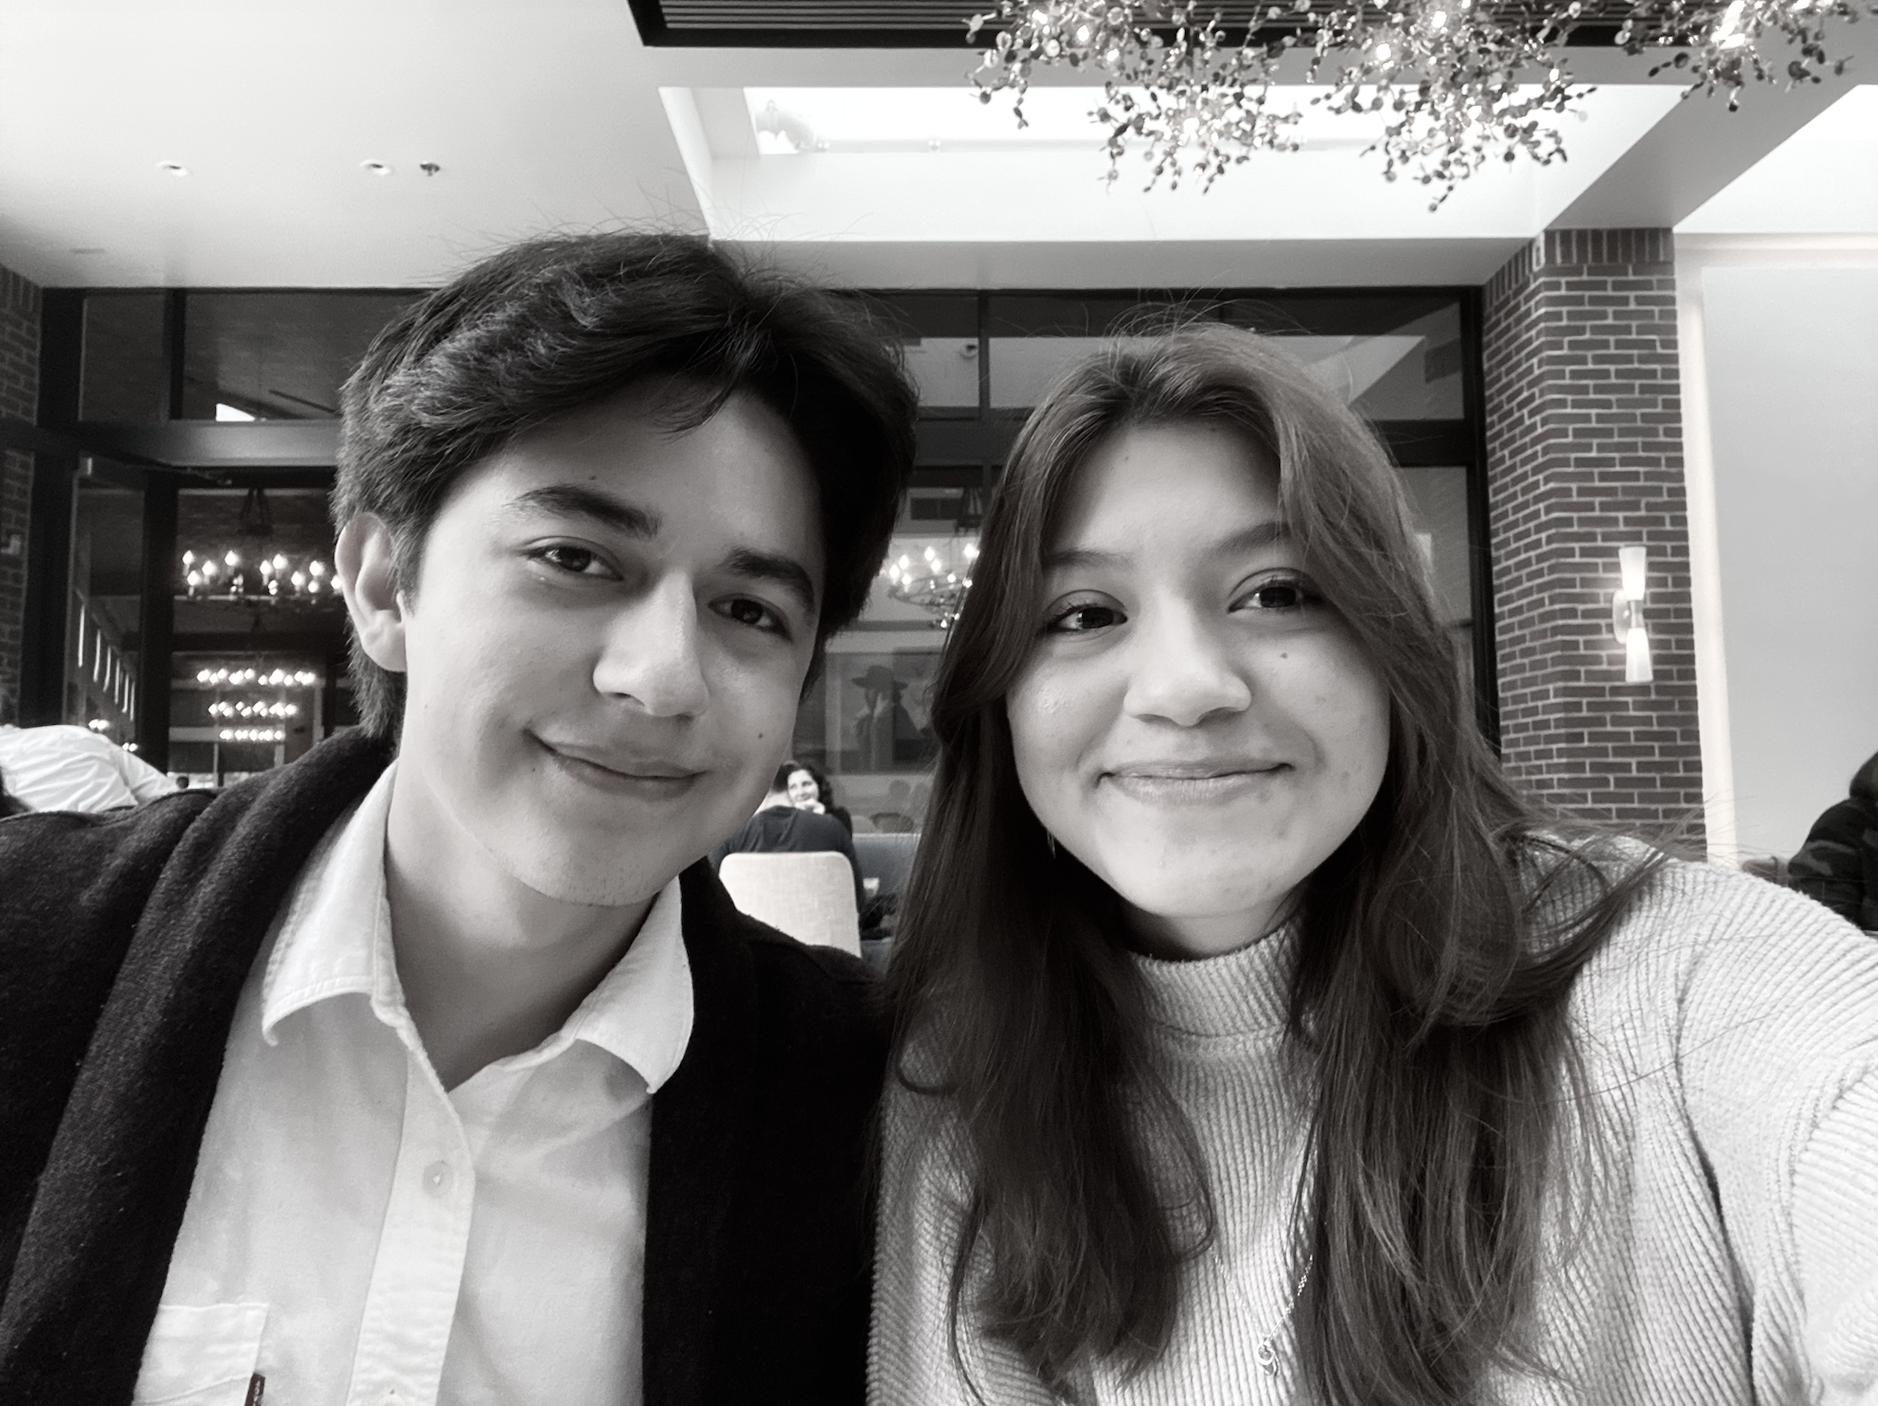
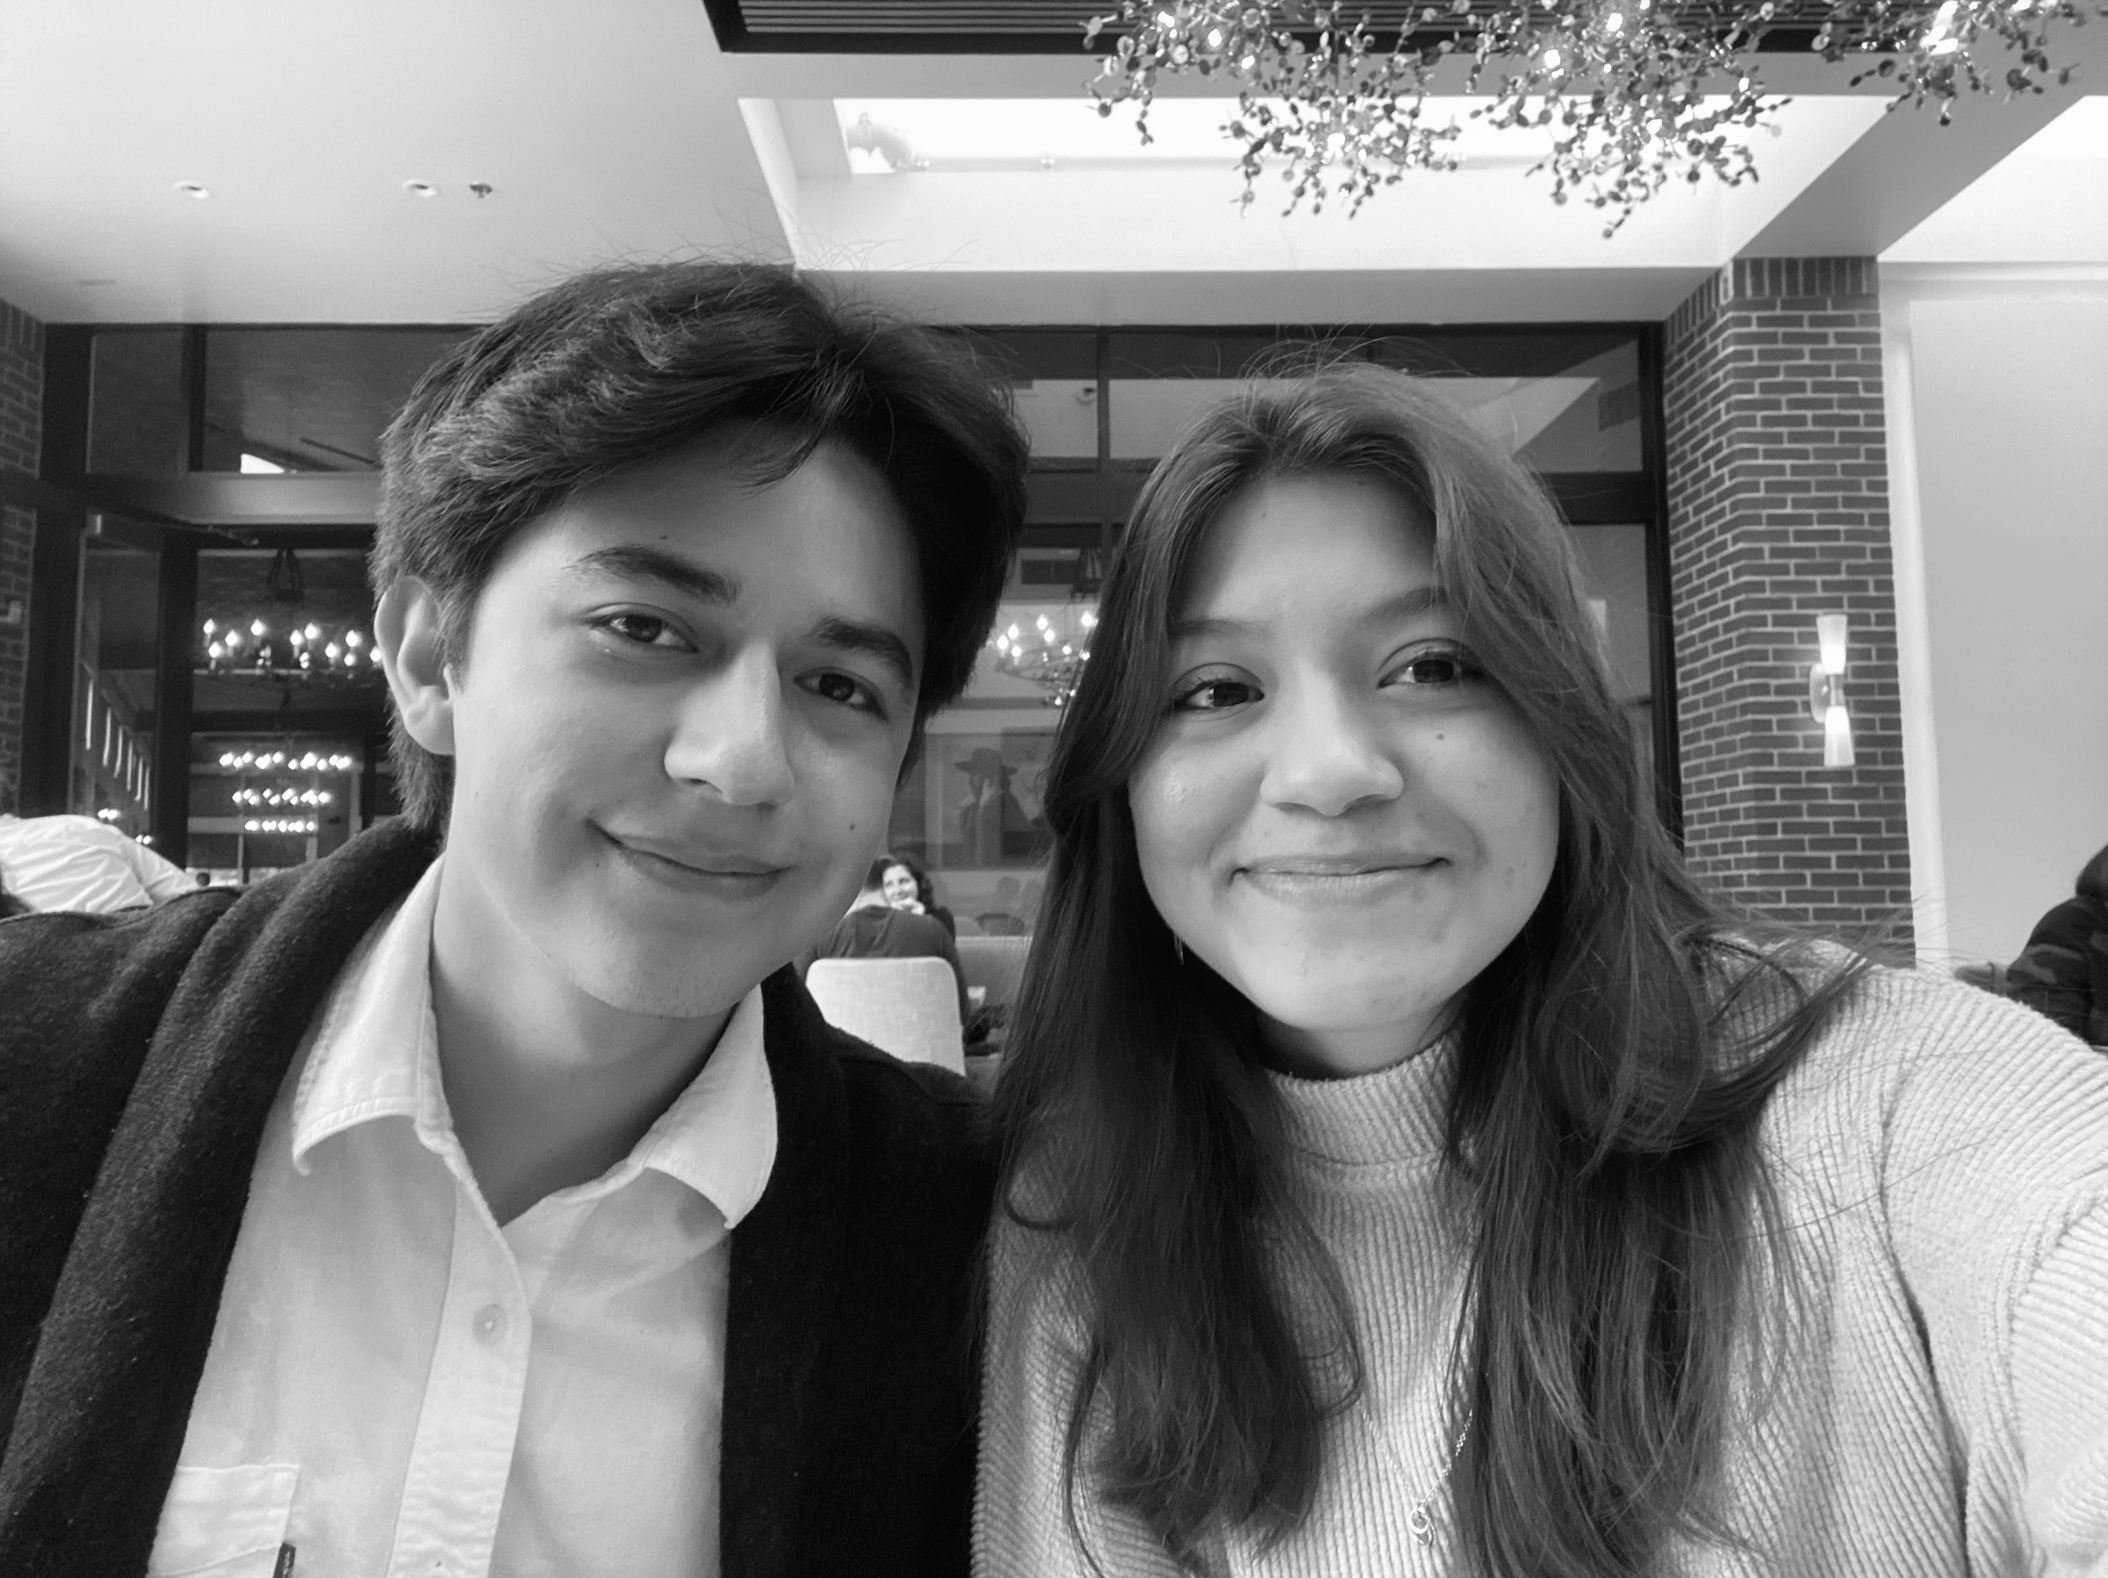
add to our story

diff --git a/i18n.js b/i18n.js
@@ -55,10 +55,10 @@
       storyLinkAria: 'Ver nuestra historia',
       storyHeading: 'Nuestra Historia',
       storyBackLink: '← Volver a la Invitación',
-      storyPara1: 'Al comienzo de nuestro segundo año de universidad, los dos asistimos por primera vez a un evento de la Sociedad de Ingenieros Hispanos Profesionales (SHPE). Después de reconocernos de la clase de historia Mexicana que habíamos tenido más temprano ese día, empezamos a platicar y terminamos caminando juntos desde el campus hasta la refresquería en Rice Village. Despues de allí, empezamos a almorzar juntos despues de clase, y nos fuimos conociendo más. Salimos a cenar algunas veces en Rice Village y comenzamos oficialmente nuestra relación en un picnic en Hermann Park.',
-      storyPara2: 'Seguimos involucrados en SHPE durante el resto de la carrera, y en nuestro último año llegamos a ser presidenta (Lizeth) y tesorero (Daniel). Nos graduamos en mayo de 2025 y, después de la universidad, pasamos un año a más de mil quinientos kilómetros de distancia: Daniel regresó a casa en Los Ángeles y Lizeth se mudó a Seattle por el trabajo.',
-      storyPara3: 'Después de tantas llamadas por FaceTime, citas virtuales y viajes entre Seattle y Los Ángeles, Daniel le pidió matrimonio a Lizeth en el Parque Nacional Joshua Tree, y Lizeth dijo que sí. Después de casarnos, viviremos en Seattle, donde Lizeth seguirá trabajando como ingeniera de software y Daniel estudiará una maestría en ingeniería mecánica en la Universidad de Washington.',
-
+      storyPara1: 'La historia de Daniel y Lizeth comenzó en su segundo año de la universidad, cuando ambos asistieron a una reunión de la Sociedad de Ingenieros Profesionales Hispanos (SHPE). Lizeth reconoció a Daniel de una clase de historia mexicana que habían tenido esa mañana, así que cuando todos salieron a comer tacos, ella empezó una conversación con él. Al terminar la reunión, un grupo decidió ir por postre a una refresquería. Ellos se unieron y platicaron durante todo el camino.',
+      storyPara2: 'Desde entonces, Daniel buscaba la manera de acercarse a Lizeth al final de clase, y empezó a acompañarla a almorzar. En las semanas siguientes, se seguían encontrando en eventos escolares y poco a poco se fueron conociendo mejor. Salieron a cenar varias veces en Rice Village, y finalmente, Daniel organizó un picnic en Hermann Park donde le pidió que fuera su novia. Ella dijo que sí.',
+      storyPara3: 'Los dos siguieron involucrados en SHPE durante toda la carrera, llegando a ser presidenta (Lizeth) y tesorero (Daniel) en su último año. Se graduaron juntos en mayo de 2025, y después pasaron un año separados por más de mil millas de distancia, ya que Daniel regresó a vivir en Los Ángeles y Lizeth se mudó a Seattle por el trabajo.',
+      storyPara4: 'Después de tantas videollamadas, citas virtuales y viajes de una ciudad a otra, Daniel le pidió matrimonio en el Parque Nacional Joshua Tree. Lizeth dijo que sí, otra vez :) . Una vez casados, la pareja vivirá en Seattle, donde Lizeth continuará su carrera como ingeniera de software y Daniel estudiará una maestría en ingeniería mecánica en la Universidad de Washington.',
       langAria: 'Idioma',
 
       modalHeading: 'Confirmar Asistencia',
@@ -127,10 +127,10 @@
       storyLinkAria: 'See our story',
       storyHeading: 'Our Story',
       storyBackLink: '← Back to the Invitation',
-      storyPara1: 'At the beginning of our sophomore year, we both went to a Society of Hispanic Professional Engineers (SHPE) event for the first time. We recognized each other from the Mexican history class we had had earlier that day, started talking, and ended up walking all the way from campus to the refresquería in Rice Village together. We started getting lunch together regularly after class and got to know each other better over time. We went out for dinner a couple of times in Rice Village, and we officially began our relationship on a picnic in Hermann Park.',
-      storyPara2: 'We stayed involved in SHPE throughout college, eventually serving as president (Lizeth) and treasurer (Daniel) during our senior year. We both graduated in May 2025, and afterward we spent a year more than a thousand miles apart — Daniel moved back home to Los Angeles, and Lizeth moved to Seattle for work.',
-      storyPara3: 'After countless FaceTime calls, virtual dates, and trips between Seattle and Los Angeles, Daniel proposed to Lizeth in Joshua Tree National Park, and Lizeth said yes. After the wedding, we will live in Seattle, where Lizeth will keep working as a software engineer and Daniel will pursue a master’s in mechanical engineering at the University of Washington.',
-
+      storyPara1: 'Daniel and Lizeth\'s story began their sophomore year, when they both attended a club meeting for the Society of Hispanic Professional Engineers (SHPE). Lizeth recognized Daniel from a Mexican history class earlier that day, so when everyone headed outside afterward for tacos, she struck up a conversation with him. After the meeting ended, a smaller group decided to get dessert at a refresquería. They joined them and talked the whole way there. ',
+      storyPara2: 'From then on, Daniel would find his way to Lizeth\'s side as soon as history class let out and started walking her to lunch. Over the following weeks, they kept crossing paths at school events and slowly got to know each other better. They went out to dinner a few times in Rice Village, and eventually, Daniel planned a picnic in Hermann Park where he asked her to be his girlfriend. She said yes.',
+      storyPara3: 'The two stayed involved in SHPE throughout college, rising to president (Lizeth) and treasurer (Daniel) by their senior year. They graduated together in May of 2025, and then spent the next year more than a thousand miles apart, as Daniel moved back home to Los Angeles and Lizeth headed to Seattle for work.',
+      storyPara4: 'After countless FaceTime calls, virtual dates, and cross-country trips between the two cities, Daniel proposed in Joshua Tree National Park. Lizeth said yes, again :) . Once they\'re married, the couple will live in Seattle, where Lizeth will continue her career as a software engineer and Daniel will pursue a master\'s in mechanical engineering at the University of Washington.',
       langAria: 'Language',
 
       modalHeading: 'Confirm Attendance',

diff --git a/historia.html b/historia.html
@@ -19,7 +19,7 @@
 <meta name="twitter:description" content="Cómo Daniel y Lizeth llegaron hasta aquí.">
 <meta name="twitter:image" content="assets/img/thumbnail.png">
 
-<link rel="stylesheet" href="styles.css?v=20260901o">
+<link rel="stylesheet" href="styles.css?v=20260901q">
 </head>
 <body class="story-page-body">
 <div class="paper-bg" aria-hidden="true"></div>
@@ -38,16 +38,21 @@
   <img class="story-page__photo" src="assets/img/us1.png" alt="Daniel y Lizeth">
   <p data-i18n="storyPara1">Al comienzo de nuestro segundo año de universidad, los dos asistimos por primera vez a un evento de SHPE.</p>
 
-  <img class="story-page__photo" src="assets/img/us2.png" alt="Daniel y Lizeth" loading="lazy">
+  <img class="story-page__photo" src="assets/img/us4.png" alt="Daniel y Lizeth" loading="lazy">
   <p data-i18n="storyPara2">Seguimos involucrados en SHPE durante el resto de la carrera y nos graduamos en mayo de 2025.</p>
 
-  <img class="story-page__photo" src="assets/img/us3.png" alt="Daniel y Lizeth" loading="lazy">
+  <img class="story-page__photo" src="assets/img/us2.png" alt="Daniel y Lizeth" loading="lazy">
   <p data-i18n="storyPara3">Daniel le pidió matrimonio a Lizeth en el Parque Nacional Joshua Tree, y Lizeth dijo que sí.</p>
+
+  <img class="story-page__photo" src="assets/img/us3.png" alt="Daniel y Lizeth" loading="lazy">
+  <p data-i18n="storyPara4">Después de tantas videollamadas, citas virtuales y viajes de una ciudad a otra, Daniel le pidió matrimonio en el Parque Nacional Joshua Tree. Lizeth dijo que sí, otra vez :) . Una vez casados, la pareja vivirá en Seattle, donde Lizeth continuará su carrera como ingeniera de software y Daniel estudiará una maestría en ingeniería mecánica en la Universidad de Washington.</p>
+
+  <img class="story-page__photo" src="assets/img/us5.png" alt="Daniel y Lizeth" loading="lazy">
 
   <a class="story-page__back" href="index.html#invitacion" data-i18n="storyBackLink">← Volver a la Invitación</a>
 </main>
 
-<script src="i18n.js?v=20260901o"></script>
-<script src="story.js?v=20260901o"></script>
+<script src="i18n.js?v=20260901q"></script>
+<script src="story.js?v=20260901q"></script>
 </body>
 </html>

diff --git a/styles.css b/styles.css
@@ -152,11 +152,18 @@ h1, h2, p { margin: 0; }
   content: '';
   position: absolute;
   inset: 0;
-  opacity: 0.7;
+  opacity: 0.9;
   mix-blend-mode: multiply;
+  /* contrast() deepens the paper grain (it washes out when the small source
+     is scaled up); brightness() keeps the page from going dim. */
+  filter: contrast(1.5) brightness(1.05);
   background-image: url("assets/img/paper-texture-bg.jpg");
-  background-size: 480px auto;
-  background-repeat: repeat;
+  /* One copy scaled to fill the fixed viewport. The source isn't a seamless
+     tile (its bottom edge is darker), so `repeat` left a faint horizontal
+     seam ~709px down the screen. */
+  background-size: cover;
+  background-position: center;
+  background-repeat: no-repeat;
 }
 
 /* ===================== Header controls ===================== */

diff --git a/index.html b/index.html
@@ -21,7 +21,7 @@
 <meta name="twitter:description" content="Nos casamos el 19 de septiembre de 2026 — acompáñanos.">
 <meta name="twitter:image" content="assets/img/thumbnail.png">
 
-<link rel="stylesheet" href="styles.css?v=20260901o">
+<link rel="stylesheet" href="styles.css?v=20260901q">
 </head>
 <body>
 <div class="paper-bg" aria-hidden="true"></div>
@@ -241,7 +241,7 @@
   </div>
 </div>
 
-<script src="i18n.js?v=20260901o"></script>
-<script src="script.js?v=20260901o"></script>
+<script src="i18n.js?v=20260901q"></script>
+<script src="script.js?v=20260901q"></script>
 </body>
 </html>
